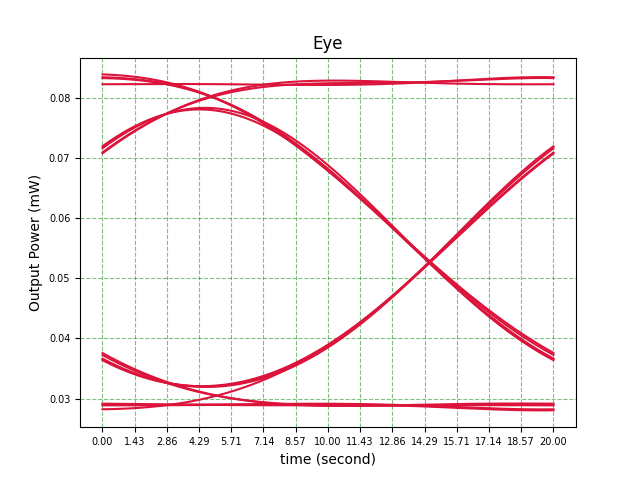
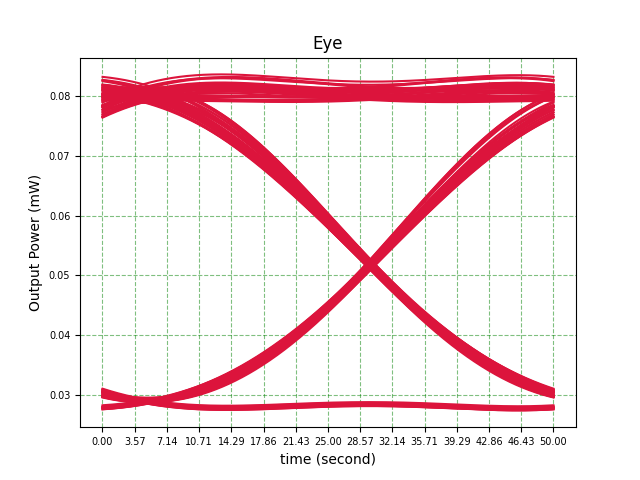
20250111

diff --git a/eye_test.py b/eye_test.py
@@ -12,7 +12,7 @@ Pin = 1 #mW
 FSR = 0.0195
 # mode = "scan_frequency"
 mode = "voltage_drive"
-bit_num = 20
+bit_num = 100
 v_bias = -1
 vpp = 1
 experiment_condition ={"mode":mode,
@@ -33,7 +33,7 @@ ring_mod = ring(2*np.pi*5,
 wl_min =  ring_mod.lambda0 - ring_mod.lambda0/ring_mod.Q/2
 wl_max =  ring_mod.lambda0 + ring_mod.lambda0/ring_mod.Q/2 
 
-v = driver(f_drive=50,
+v = driver(f_drive=20,
            v_bias=v_bias,
            vpp=vpp,
            R=53.9,
@@ -77,7 +77,6 @@ if sim.mode == "voltage_drive":
     v.create_voltage(time=t)
     b,Q,s_minus,N = solving(sim,ring_mod,v,t)
     ploting(t.t_total,v.v,x_label='time (ps)',title='voltage (V)',filename='voltage')
-    ploting(t.t_total,v.Cj,x_label='time (ps)',title='capacitance (C)',filename='capacitance')
     v.varying_Cj()
     b1,Q1,s_minus1,N1 = solving(sim,ring_mod,v,t)
     ploting(t.t_total,Q,Q1,x_label='time (ps)',title='Q',filename='Q',leg=['fixed Cj','varying Cj'])
